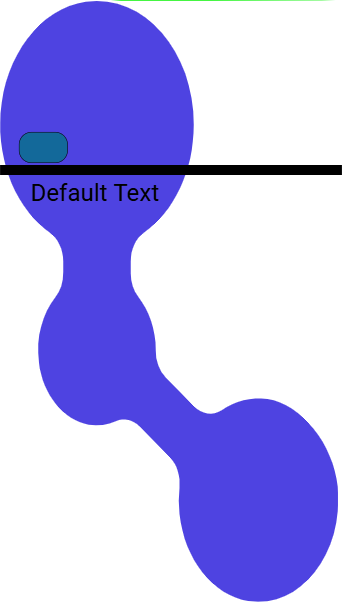
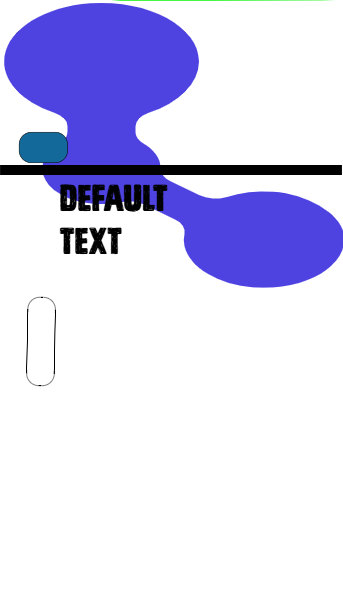
changes for curvature and allow image to dragg

diff --git a/AnimationProject/wwwroot/js/animations.js b/AnimationProject/wwwroot/js/animations.js
@@ -11344,16 +11344,6 @@ canvas.addEventListener("mousemove", e => {
             (typeof __isBasicShapeSvg === 'function' && __isBasicShapeSvg(box))
         ));
     }
-    // ADDED: detect the "line" basic shape safely
-    function __isLineBasic(box) {
-        if (!box || box.type !== 'image' || !__isBasicImage(box)) return false;
-        const name = (String(box.basicName || box.src || '')
-            .split(/[?#]/)[0]
-            .split('/')
-            .pop() || '').toLowerCase();
-        return (name === 'ico-shapes-line.svg' || name === 'ico-shapes-line');
-    }
-
     // Curvature you render with. Default = pill ends (0.5 of height).
     function __curvRatio(box) {
         let k = (typeof box?.curvatureRatio === 'number') ? box.curvatureRatio : 0.5;
@@ -11394,83 +11384,6 @@ canvas.addEventListener("mousemove", e => {
         }
         return { clamped: false };
     }
-
-    // ADDED: canvas size + clamp to keep images inside bounds
-    function __canvasSize() {
-        // Safely read optional globals designW/designH if your app defines them.
-        const hasDesignW = (typeof designW !== 'undefined') && Number.isFinite(designW);
-        const hasDesignH = (typeof designH !== 'undefined') && Number.isFinite(designH);
-
-        const W = hasDesignW ? designW : ((canvas && canvas.width) || 0);
-        const H = hasDesignH ? designH : ((canvas && canvas.height) || 0);
-
-        return { W, H };
-    }
-    /**
-     * Clamp an IMAGE box so it cannot be outside the canvas.
-     * handle: 'drag' | 'l'|'r'|'t'|'b'|'tl'|'tr'|'bl'|'br'
-     */
-    function __clampImageToCanvas(box, handle) {
-        const { W, H } = __canvasSize();
-        if (!W || !H || !box) return;
-
-        // Minimums (respect BASIC min width on L/R; lock line height to 1)
-        const minW = __isBasicImage(box) ? Math.max(1, __minWidthForBasic(box)) : 1;
-        const minH = __isLineBasic(box) ? 1 : 1;
-
-        if (!Number.isFinite(box.width)) box.width = minW;
-        if (!Number.isFinite(box.height)) box.height = minH;
-        if (box.width < minW) box.width = minW;
-        if (box.height < minH) box.height = minH;
-
-        const h = String(handle || '');
-        const movingLeft = /(^|t|b)l$/.test(h) || h === 'l';
-        const movingRight = /(^|t|b)r$/.test(h) || h === 'r';
-        const movingTop = /t($|l|r)/.test(h) || h === 't';
-        const movingBottom = /b($|l|r)/.test(h) || h === 'b';
-
-        // Drag: just clamp position so full box stays inside
-        if (handle === 'drag' || !handle) {
-            if (box.x < 0) box.x = 0;
-            if (box.y < 0) box.y = 0;
-            if (box.x + box.width > W) box.x = Math.max(0, W - box.width);
-            if (box.y + box.height > H) box.y = Math.max(0, H - box.height);
-            return;
-        }
-
-        // Resizing: keep opposite edge anchored
-        // LEFT (anchor right)
-        if (movingLeft) {
-            const right = box.x + box.width;
-            if (box.x < 0) { box.width = right; box.x = 0; }
-            if (box.width < minW) { box.width = Math.min(minW, W); box.x = right - box.width; if (box.x < 0) { box.x = 0; box.width = right; } }
-        }
-        // RIGHT (anchor left)
-        if (movingRight) {
-            if (box.x + box.width > W) box.width = W - box.x;
-            if (box.width < minW) box.width = Math.min(minW, W - box.x);
-        }
-        // TOP (anchor bottom)
-        if (movingTop) {
-            const bottom = box.y + box.height;
-            if (box.y < 0) { box.height = bottom; box.y = 0; }
-            if (box.height < minH) { box.height = Math.min(minH, H); box.y = bottom - box.height; if (box.y < 0) { box.y = 0; box.height = bottom; } }
-        }
-        // BOTTOM (anchor top)
-        if (movingBottom) {
-            if (box.y + box.height > H) box.height = H - box.y;
-            if (box.height < minH) box.height = Math.min(minH, H - box.y);
-        }
-
-        // Final safety
-        if (box.x < 0) box.x = 0;
-        if (box.y < 0) box.y = 0;
-        if (box.x + box.width > W) box.width = W - box.x;
-        if (box.y + box.height > H) box.height = H - box.y;
-
-        if (box.width < minW) box.width = minW;
-        if (box.height < minH) box.height = minH;
-    }
     // ──────────────────────────────────────────────────────────
 
     // ✅ TEXT left/right side-resize in rotated space
@@ -11508,12 +11421,6 @@ canvas.addEventListener("mousemove", e => {
     if (isDraggingNew && activeBox) {
         activeBox.x = mx - dragOffsetXNew;
         activeBox.y = my - dragOffsetYNew;
-
-        // ADDED: keep images inside while dragging
-        if (activeBox.type === 'image') {
-            __clampImageToCanvas(activeBox, 'drag');
-        }
-
         prevMouseX = mx; prevMouseY = my;
         drawText();
         return;
@@ -11577,15 +11484,12 @@ canvas.addEventListener("mousemove", e => {
             case 'br': activeBox.x = activeBox._orig.x; activeBox.y = activeBox._orig.y; break;
         }
         activeBox.width = newW; activeBox.height = newH;
-
-        // ADDED: clamp after corner resize
-        __clampImageToCanvas(activeBox, dir);
-
         drawText();
         return;
     }
 
-    // Sides (text or image)
+
+    // Sides (text or image)  ⟵ REPLACE your current block with this one
     if (isResizingNew && activeBox && resizeDirection) {
         const side = (resizeDirectionNorm || resizeDirection); // 'l'|'r'|'t'|'b'
 
@@ -11605,20 +11509,12 @@ canvas.addEventListener("mousemove", e => {
                         } else { // 'b'
                             activeBox.height = 1;     // keep top anchored (y unchanged)
                         }
-
-                        // ADDED: clamp to canvas after lock
-                        __clampImageToCanvas(activeBox, side);
-
                         prevMouseX = mx; prevMouseY = my;
                     } else {
                         // For other BASIC shapes: allow T/B resize but clamp to min height
                         // so curvature constraints are respected.
                         scaleImageBoxWithHandle(activeBox, side, mx, my);
                         const { clamped, edgeY } = __clampBasicSideResize(activeBox, side);
-
-                        // ADDED: keep inside canvas
-                        __clampImageToCanvas(activeBox, side);
-
                         prevMouseX = mx;
                         prevMouseY = (typeof edgeY === 'number') ? edgeY : my;
                     }
@@ -11626,10 +11522,6 @@ canvas.addEventListener("mousemove", e => {
                 } else {
                     // ✅ NON-BASIC images → your current behavior
                     scaleImageBoxWithHandle(activeBox, side, mx, my);
-
-                    // ADDED: keep inside canvas
-                    __clampImageToCanvas(activeBox, side);
-
                     prevMouseX = mx; prevMouseY = my;
                 }
 
@@ -11646,9 +11538,6 @@ canvas.addEventListener("mousemove", e => {
                 if (clamped && typeof edgeX === 'number') snappedX = edgeX;
             }
 
-            // ADDED: keep inside canvas
-            __clampImageToCanvas(activeBox, side);
-
             prevMouseX = (snappedX !== null ? snappedX : mx);
             prevMouseY = my;
             drawText();
@@ -11662,6 +11551,7 @@ canvas.addEventListener("mousemove", e => {
         }
     }
 });
+
 
 //canvas.addEventListener("mousemove", e => {
 //    const { x: mx, y: my } = getCanvasMousePosition(e);
